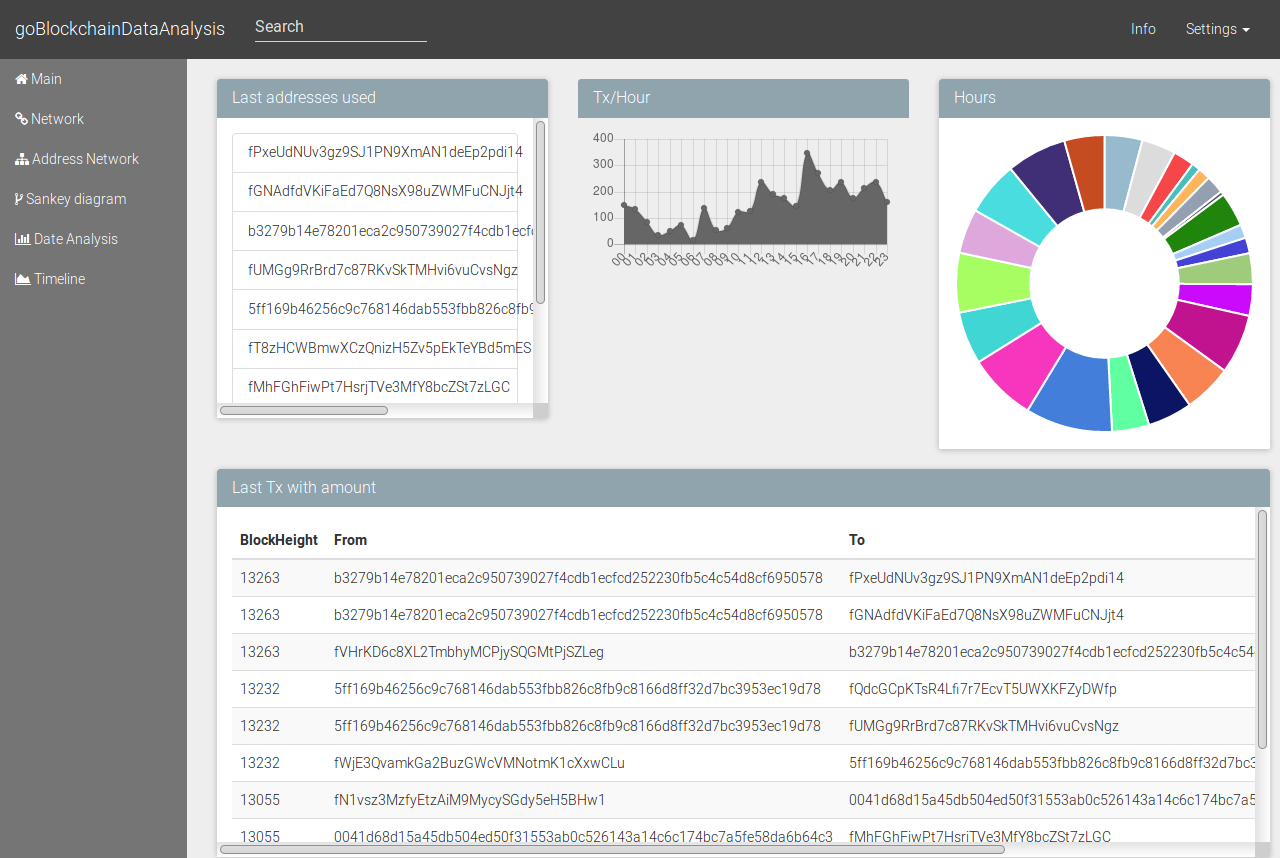
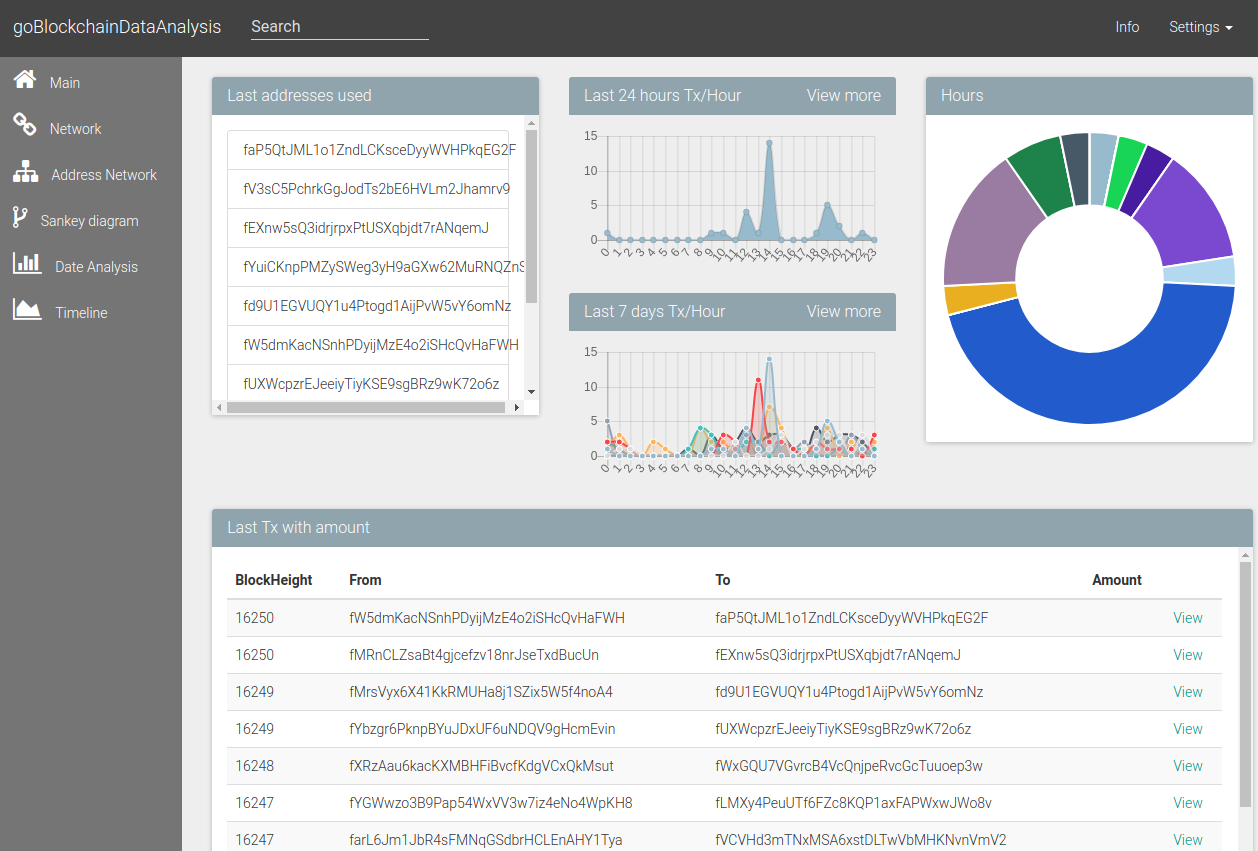
implemented get last blocks from blockchain since last sync and store in mongodb. Implemented generate and visualize Last7DaysHourAnalysis

diff --git a/web/views/dateAnalysis/dateAnalysis.js b/web/views/dateAnalysis/dateAnalysis.js
@@ -9,19 +9,19 @@ angular.module('app.dateAnalysis', ['ngRoute', 'chart.js'])
         });
     }])
 
-    .controller('DateAnalysisCtrl', function($scope, $http, $routeParams) {
-        $scope.totalhour={
+    .controller('DateAnalysisCtrl', function($scope, $http) {
+        $scope.last7day={
             data: [],
             labels: []
         };
 
-        $http.get(urlapi + 'totalhouranalysis')
+        $http.get(urlapi + 'last7day')
             .then(function(data, status, headers, config) {
                 console.log('data success');
                 console.log(data);
 
-                $scope.totalhour.data = data.data.data;
-                $scope.totalhour.labels=data.data.labels;
+                $scope.last7day.data = data.data.data;
+                $scope.last7day.labels=data.data.labels;
             }, function(data, status, headers, config) {
                 console.log('data error');
             });
@@ -38,6 +38,22 @@ angular.module('app.dateAnalysis', ['ngRoute', 'chart.js'])
 
                 $scope.last24hour.data = data.data.data;
                 $scope.last24hour.labels = data.data.labels;
+            }, function(data, status, headers, config) {
+                console.log('data error');
+            });
+
+        $scope.last7dayhour= {
+            data:[],
+            labels:  []
+        };
+        $http.get(urlapi + 'last7dayhour')
+            .then(function(data, status, headers, config) {
+                console.log('data success');
+                console.log(data);
+
+                $scope.last7dayhour.data = data.data.data;
+                $scope.last7dayhour.labels = data.data.labels;
+                $scope.last7dayhour.series = data.data.series;
             }, function(data, status, headers, config) {
                 console.log('data error');
             });

diff --git a/web/views/dateAnalysis/dateAnalysis.html b/web/views/dateAnalysis/dateAnalysis.html
@@ -1,11 +1,11 @@
 <div class="row">
     <div class="col-md-6">
         <div class="panel-heading c_blueGrey300">
-            <h3 class="panel-title">All time Tx/Hour</h3>
+            <h3 class="panel-title">Last 7 Days Tx/Day</h3>
         </div>
         <div class="panel-body">
-            <canvas id="line" class="chart chart-line" chart-data="totalhour.data" chart-labels="totalhour.labels">
-                  </canvas>
+            <canvas id="bar" class="chart chart-bar" chart-data="last7day.data" chart-labels="last7day.labels" chart-series="last7day.series">
+            </canvas>
         </div>
     </div>
     <div class="col-md-6">
@@ -15,6 +15,17 @@
         <div class="panel-body">
             <canvas id="line" class="chart chart-line" chart-data="last24hour.data" chart-labels="last24hour.labels">
                   </canvas>
+        </div>
+    </div>
+</div>
+<div class="row">
+    <div class="col-md-12">
+        <div class="panel-heading c_blueGrey300">
+            <h3 class="panel-title">Last 7 Days Tx/Hour</h3>
+        </div>
+        <div class="panel-body">
+            <canvas id="line" class="chart chart-line" chart-data="last7dayhour.data" chart-labels="last7dayhour.labels" chart-series="last7dayhour.series">
+            </canvas>
         </div>
     </div>
 </div>

diff --git a/web/views/main/main.html b/web/views/main/main.html
@@ -16,17 +16,19 @@
     </div>
     <div class="col-sm-4">
         <div class="panel-heading c_blueGrey300">
-            <h3 class="panel-title">Last 24 hours Tx/Hour</h3>
+            <h3 class="panel-title">Last 24 hours Tx/Hour
+            <a ng-href="#!/dateAnalysis" class="pull-right c_blueGrey300">View more</a></h3>
         </div>
         <div class="panel-body">
             <canvas id="line" class="chart chart-line" chart-data="last24hour.data" chart-labels="last24hour.labels">
             </canvas>
         </div>
         <div class="panel-heading c_blueGrey300">
-            <h3 class="panel-title">Last 7 days Tx/Day</h3>
+            <h3 class="panel-title">Last 7 days Tx/Hour
+                <a ng-href="#!/dateAnalysis" class="pull-right c_blueGrey300">View more</a></h3>
         </div>
         <div class="panel-body">
-            <canvas id="line" class="chart chart-line" chart-data="last7day.data" chart-labels="last7day.labels">
+            <canvas id="line" class="chart chart-line" chart-data="last7dayhour.data" chart-labels="last7dayhour.labels" chart-series="last7dayhour.series">
             </canvas>
         </div>
     </div>

diff --git a/web/views/main/main.js b/web/views/main/main.js
@@ -49,17 +49,18 @@ angular.module('app.main', ['ngRoute'])
             }, function(data, status, headers, config) {
                 console.log('data error');
             });
-        $scope.last7day= {
+        $scope.last7dayhour= {
             data:[],
             labels:  []
         };
-        $http.get(urlapi + 'last7day')
+        $http.get(urlapi + 'last7dayhour')
             .then(function(data, status, headers, config) {
                 console.log('data success');
                 console.log(data);
 
-                $scope.last7day.data = data.data.data;
-                $scope.last7day.labels = data.data.labels;
+                $scope.last7dayhour.data = data.data.data;
+                $scope.last7dayhour.labels = data.data.labels;
+                $scope.last7dayhour.series = data.data.series;
             }, function(data, status, headers, config) {
                 console.log('data error');
             });

diff --git a/serverRoutes.go b/serverRoutes.go
@@ -76,6 +76,12 @@ var routes = Routes{
 		"/last7day",
 		GetLast7DayAnalysis,
 	},
+	Route{
+		"GetLast7DayHourAnalysis",
+		"Get",
+		"/last7dayhour",
+		GetLast7DayHourAnalysis,
+	},
 }
 
 //ROUTES
@@ -312,6 +318,52 @@ func GetLast7DayAnalysis(w http.ResponseWriter, r *http.Request) {
 		resp.Labels = append(resp.Labels, strconv.Itoa(d.Elem))
 		resp.Data = append(resp.Data, d.Count)
 	}
+
+	//convert []resp struct to json
+	jsonResp, err := json.Marshal(resp)
+	check(err)
+	fmt.Fprintln(w, string(jsonResp))
+}
+
+func GetLast7DayHourAnalysis(w http.ResponseWriter, r *http.Request) {
+	ipFilter(w, r)
+
+	var resp ChartSeriesAnalysisResp
+
+	for i := 0; i < 7; i++ {
+		fromDate := time.Now().AddDate(0, 0, -i-1)
+		toDate := time.Now().AddDate(0, 0, -i)
+		txs := []TxModel{}
+		err := txCollection.Find(bson.M{
+			"datet": bson.M{
+				"$gt": fromDate,
+				"$lt": toDate,
+			},
+		}).Sort("-$natural").All(&txs)
+		check(err)
+
+		//generate map with 24 hours
+		hourFrequencies := map24hours()
+		for _, tx := range txs {
+			hourFrequencies[tx.Date.Hour]++
+		}
+		var hourCount []ChartCountModel
+		for hour, frequency := range hourFrequencies {
+			hourCount = append(hourCount, ChartCountModel{hour, frequency})
+		}
+		//sort by hour
+		sort.Slice(hourCount, func(i, j int) bool {
+			return hourCount[i].Elem < hourCount[j].Elem
+		})
+		var dayData []int
+		for _, d := range hourCount {
+			dayData = append(dayData, d.Count)
+		}
+		resp.Series = append(resp.Series, txs[0].Date.Day)
+		resp.Data = append(resp.Data, dayData)
+	}
+	hourLabels := []string{"0", "1", "2", "3", "4", "5", "6", "7", "8", "9", "10", "11", "12", "13", "14", "15", "16", "17", "18", "19", "20", "21", "22", "23"}
+	resp.Labels = hourLabels
 
 	//convert []resp struct to json
 	jsonResp, err := json.Marshal(resp)

diff --git a/main.go b/main.go
@@ -4,12 +4,13 @@ import (
 	"log"
 	"net/http"
 	"os"
+	"strconv"
 	"time"
 
 	mgo "gopkg.in/mgo.v2"
+	"gopkg.in/mgo.v2/bson"
 
 	"github.com/btcsuite/btcrpcclient"
-	"github.com/fatih/color"
 	"github.com/gorilla/handlers"
 )
 
@@ -61,7 +62,7 @@ func main() {
 			for label, amount := range accounts {
 				log.Printf("%s: %s", label, amount)
 			}
-			color.Blue("starting to explore blockchain")
+			log.Println("starting to explore blockchain")
 			start := time.Now()
 			explore(client, config.GenesisBlock)
 			log.Println("blockchain exploration finished, time:")
@@ -73,6 +74,27 @@ func main() {
 				log.Fatal(err)
 			}
 			log.Printf("Block count: %d", blockCount)
+		}
+		if os.Args[1] == "-continue" {
+			// create new client instance
+			client, err := btcrpcclient.New(&btcrpcclient.ConnConfig{
+				HTTPPostMode: true,
+				DisableTLS:   true,
+				Host:         config.Host + ":" + config.Port,
+				User:         config.User,
+				Pass:         config.Pass,
+			}, nil)
+			check(err)
+			//get last block stored in mongodb
+			lastBlock := BlockModel{}
+			err = blockCollection.Find(bson.M{}).Sort("-$natural").One(&lastBlock)
+			check(err)
+			log.Println("Getting last block stored in MongoDB. Hash: " + string(lastBlock.Hash) + ", BlockHeight: " + strconv.FormatInt(lastBlock.Height, 10))
+			log.Println("continuing blockchain exploration since last block in mongodb")
+			start := time.Now()
+			explore(client, string(lastBlock.Hash))
+			log.Println("blockchain exploration finished, time:")
+			log.Println(time.Since(start))
 		}
 	}
 	//run thw webserver

diff --git a/exploreBlockchain.go b/exploreBlockchain.go
@@ -25,7 +25,6 @@ func explore(client *btcrpcclient.Client, blockHash string) {
 		check(err)
 		block, err := client.GetBlockVerbose(bh)
 		check(err)
-
 		if block.Height > config.StartFromBlock {
 			var newBlock BlockModel
 			newBlock.Hash = block.Hash
@@ -176,7 +175,7 @@ func explore(client *btcrpcclient.Client, blockHash string) {
 		blockHash = block.NextHash
 	}
 
-	fmt.Print("realBlocks (blocks with Fee and Amount values): ")
+	fmt.Print("realBlocks added (blocks with Fee and Amount values): ")
 	fmt.Println(realBlocks)
 	fmt.Println("reached the end of blockchain")
 }

diff --git a/mongoModels.go b/mongoModels.go
@@ -92,6 +92,11 @@ type ChartAnalysisResp struct {
 	Labels []string `json:"labels"`
 	Data   []int    `json:"data"`
 }
+type ChartSeriesAnalysisResp struct {
+	Labels []string `json:"labels"`
+	Data   [][]int  `json:"data"`
+	Series []int    `json:"series"`
+}
 type DateCountModel struct {
 	Time  int64  `json:"time"`
 	Date  string `json:"date"`

diff --git a/README.md b/README.md
@@ -33,7 +33,7 @@ rpcallowip=127.0.0.1
     "port": "3021",
[2 lines of base64/hex data omitted]
-    "startFromBlock": 160,
+    "startFromBlock": 0,
     "server": {
         "serverIP": "127.0.0.1",
         "serverPort": "3014",
@@ -68,10 +68,16 @@ Wait until the entire blockchain is downloaded.
 ./goBlockchainDataAnalysis -explore
 ```
 
-    3.1. The next runs, once the database have data, can just run:
+    3.1. The next runs, once the database have data and just need to add last blocks added in the blockchain, can just run:
+```
+./goBlockchainDataAnalysis -continue
+```
+    
+    3.2. If don't want to fill the database, can just run:
 ```
 ./goBlockchainDataAnalysis
 ```
+
 Webapp will run on 127.0.0.1:8080
 
 4. ADDITIONAL - Run the webserver, directly from the /web directory
